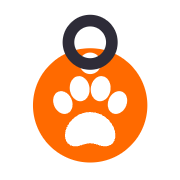
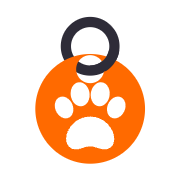
Колечко логотипа продето через отверстие, компактный главный баннер на телефоне, фасовки и кнопки в карточках на одном уровне

diff --git a/src/App.jsx b/src/App.jsx
@@ -282,19 +282,20 @@ function Home({ filter, setFilter, nav, topic, setTopic }) {
 function Hero({ nav }) {
   return (
     <section className="wrap pt-5">
-      <div className="relative overflow-hidden rounded-[20px] bg-gradient-to-r from-[#fdeef1] via-[#fbe2e7] to-[#f6d2da] px-6 py-10 md:px-14 md:py-14">
+      <div className="relative overflow-hidden rounded-[20px] bg-gradient-to-r from-[#fdeef1] via-[#fbe2e7] to-[#f6d2da] px-4 py-5 sm:px-6 sm:py-10 md:px-14 md:py-14">
         <div className="relative z-10 max-w-[560px]">
-          <span className="inline-block rounded-full bg-white px-3 py-1 text-xs font-semibold text-ink">Бесплатная доставка по Санкт-Петербургу</span>
-          <h1 className="mt-5 text-[34px] font-extrabold leading-[1.04] tracking-tight md:text-[54px]">Корма «Хвостик» для кошек и собак в Санкт-Петербурге</h1>
-          <p className="mt-5 max-w-[470px] text-lg leading-snug md:text-xl">
+          <span className="hidden rounded-full bg-white px-3 py-1 text-xs font-semibold text-ink sm:inline-block">Бесплатная доставка по Санкт-Петербургу</span>
+          <h1 className="text-[24px] font-extrabold leading-[1.1] tracking-tight sm:mt-5 sm:text-[34px] md:text-[54px]">Корма «Хвостик» для кошек и собак в Санкт-Петербурге</h1>
+          <p className="mt-2 text-[15px] text-txt-2 sm:hidden">8 рецептов · от {minAll} ₽ · бесплатная доставка</p>
+          <p className="mt-5 hidden max-w-[470px] text-lg leading-snug sm:block md:text-xl">
             Хвостик.МЯУ и Хвостик.ГАВ — восемь сухих рецептов: для взрослых, котят, щенков, стерилизованных кошек и мелких пород. От {minAll} ₽.
           </p>
-          <div className="mt-8 flex flex-wrap gap-3">
-            <Link to={kinds.cat.path} className={cn(inkBtn, 'flex h-[52px] items-center px-7 text-base')}>Корм для кошек</Link>
-            <Link to={kinds.dog.path} className="flex h-[52px] items-center rounded-[10px] bg-white px-7 text-base font-semibold hover:bg-gray-1">Корм для собак</Link>
+          <div className="mt-4 grid grid-cols-2 gap-2 sm:mt-8 sm:flex sm:flex-wrap sm:gap-3">
+            <Link to={kinds.cat.path} className={cn(inkBtn, 'flex h-11 items-center justify-center px-3 text-[15px] sm:h-[52px] sm:px-7 sm:text-base')}>Корм для кошек</Link>
+            <Link to={kinds.dog.path} className="flex h-11 items-center justify-center rounded-[10px] bg-white px-3 text-[15px] font-semibold hover:bg-gray-1 sm:h-[52px] sm:px-7 sm:text-base">Корм для собак</Link>
           </div>
         </div>
-        <div className="pointer-events-none mt-8 flex items-end justify-center md:absolute md:bottom-6 md:right-12 md:mt-0">
+        <div className="pointer-events-none mt-8 hidden items-end justify-center sm:flex md:absolute md:bottom-6 md:right-12 md:mt-0">
           <img src={img('myau-steril')} {...IMG} alt="Упаковка корма Хвостик.МЯУ для стерилизованных кошек" fetchPriority="high" className="relative z-10 h-auto w-[120px] -rotate-6 drop-shadow-xl md:w-[190px]" />
           <img src={img('gav-small')} {...IMG} alt="Упаковка корма Хвостик.ГАВ для собак мелких пород" fetchPriority="high" className="-ml-4 h-auto w-[120px] rotate-3 drop-shadow-xl md:w-[190px]" />
           <img src={img('myau-kitten')} {...IMG} alt="" className="-ml-6 hidden h-auto w-[160px] rotate-12 drop-shadow-xl lg:block" />
@@ -314,7 +315,7 @@ function Hero({ nav }) {
               <ChevronRight className="size-5 text-txt-2" />
             </>
           )
-          const cls = 'flex min-w-[240px] items-center gap-3 rounded-[14px] bg-gray-1 px-4 py-4 text-left transition-colors hover:bg-gray-2'
+          const cls = 'flex min-w-[220px] items-center gap-3 rounded-[14px] bg-gray-1 px-3 py-3 text-left sm:min-w-[240px] sm:px-4 sm:py-4 transition-colors hover:bg-gray-2'
           return to ? <Link key={a} to={to} className={cls}>{inner}</Link> : <button key={a} onClick={() => nav.contact(t)} className={cls}>{inner}</button>
         })}
       </div>
@@ -413,12 +414,12 @@ function ProductCard({ p }) {
       <h3 className="mt-1 text-sm leading-snug sm:text-[15px]">
         <Link to={productPath(p)} className="hover:text-violet-dark"><b>{p.line}</b> {p.name}</Link>
       </h3>
-      <div className="mt-3 flex flex-wrap gap-1.5" role="group" aria-label="Фасовка">
+      <div className="mt-auto flex gap-1.5 pt-3" role="group" aria-label="Фасовка">
         {p.weights.map((w, i) => (
-          <button key={w.w} onClick={() => setVi(i)} aria-pressed={i === vi} className={cn('h-9 rounded-[8px] border px-2.5 text-sm sm:px-3', i === vi ? 'border-ink bg-ink text-white' : 'border-gray-3 hover:border-ink')}>{w.w}</button>
+          <button key={w.w} onClick={() => setVi(i)} aria-pressed={i === vi} className={cn('h-9 min-w-0 flex-1 whitespace-nowrap rounded-[8px] border px-1 text-sm sm:flex-none sm:px-3', i === vi ? 'border-ink bg-ink text-white' : 'border-gray-3 hover:border-ink')}>{w.w}</button>
         ))}
       </div>
-      <div className="mt-auto pt-4">
+      <div className="pt-3">
         <Buy p={p} v={v} qty={qty} />
       </div>
     </article>
